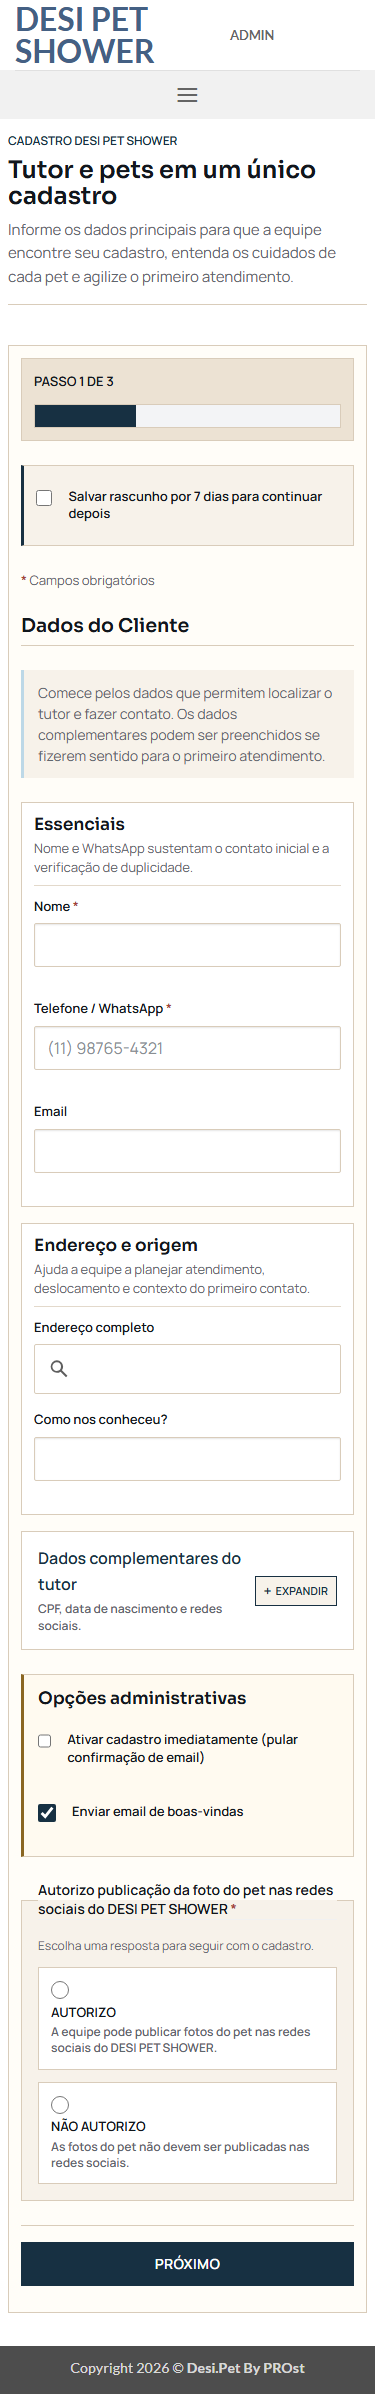
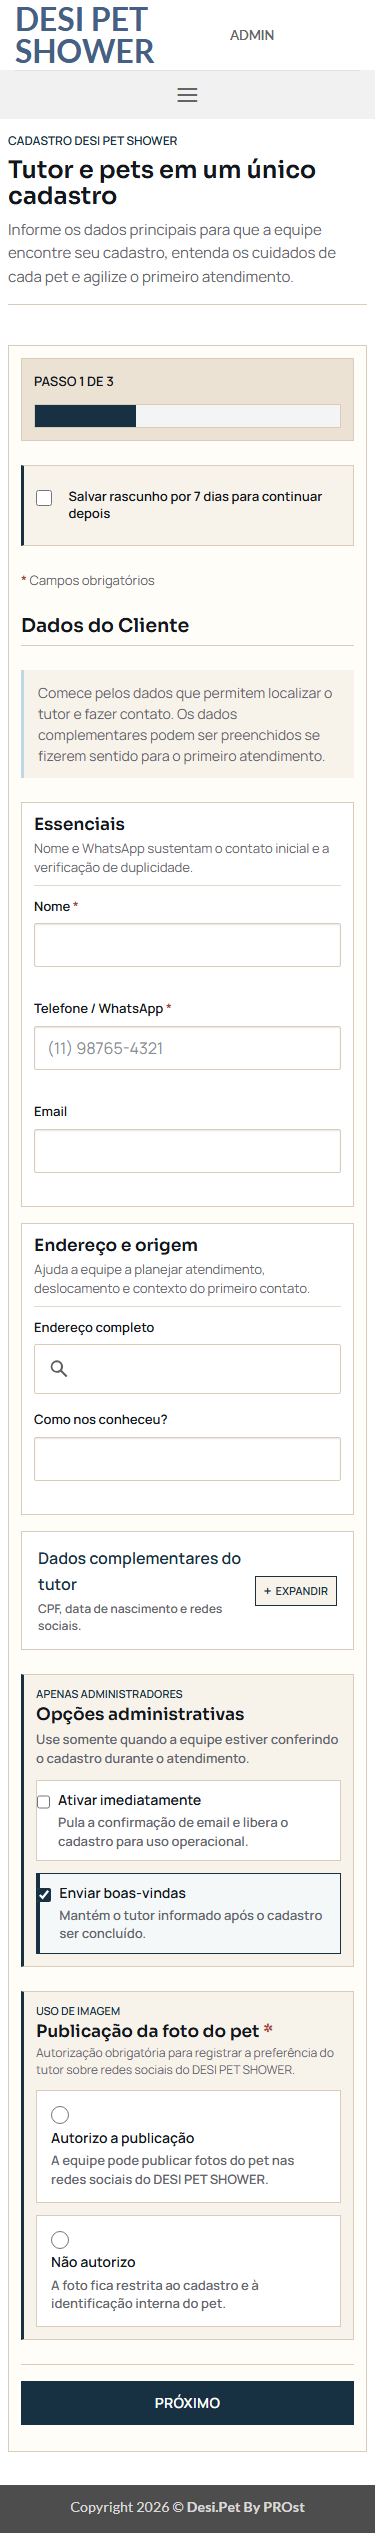
Refinar opcoes finais do Cadastro

diff --git a/plugins/desi-pet-shower-registration/assets/css/registration-addon.css b/plugins/desi-pet-shower-registration/assets/css/registration-addon.css
@@ -513,21 +513,36 @@
     margin: 0;
     padding: 16px;
     border: 1px solid var(--dps-reg-line);
+    border-left: 3px solid var(--dps-reg-petrol);
     border-radius: 0;
     background: var(--dps-reg-paper);
 }
 
-.dps-photo-auth-choice legend {
-    display: block;
-    width: 100%;
-    margin: 0 0 var(--dps-reg-gap-xs);
-    padding: 0;
+.dps-photo-auth-choice__header {
+    display: grid;
+    gap: 5px;
+    min-width: 0;
+}
+
+.dps-photo-auth-choice__eyebrow,
+.dps-admin-options__eyebrow {
+    margin: 0;
+    color: var(--dps-reg-petrol);
+    font-size: 11px;
+    font-weight: 900;
+    letter-spacing: 0;
+    line-height: 1.2;
+    text-transform: uppercase;
+}
+
+.dps-photo-auth-choice__title {
+    margin: 0;
     color: var(--dps-reg-ink);
-    font-size: 14px;
+    font-family: var(--dps-signature-font-display, var(--dps-font-display, system-ui, sans-serif));
+    font-size: 18px;
     font-weight: 800;
     letter-spacing: 0;
     line-height: 1.35;
-    text-transform: none;
 }
 
 .dps-photo-auth-options {
@@ -542,13 +557,14 @@
     gap: var(--dps-reg-gap-sm);
     align-items: start;
     min-width: 0;
+    min-height: 112px;
     margin: 0;
-    padding: 12px;
+    padding: 14px;
     border: 1px solid var(--dps-reg-line);
     border-radius: 0;
     background: #ffffff;
     cursor: pointer;
-    transition: border-color .18s ease, background-color .18s ease;
+    transition: border-color .18s ease, background-color .18s ease, box-shadow .18s ease;
 }
 
 .dps-photo-auth-option:hover,
@@ -559,7 +575,8 @@
 
 .dps-photo-auth-option:has(input:checked) {
     border-color: var(--dps-reg-petrol);
-    background: var(--dps-reg-sky);
+    background: #f4f8f8;
+    box-shadow: inset 3px 0 0 var(--dps-reg-petrol);
 }
 
 .dps-photo-auth-option input[type="radio"] {
@@ -571,22 +588,23 @@
 
 .dps-photo-auth-option__text {
     display: grid;
-    gap: 3px;
+    gap: 5px;
     min-width: 0;
 }
 
 .dps-photo-auth-option__text strong {
     color: var(--dps-reg-ink);
-    font-size: 13px;
+    font-size: 14px;
     font-weight: 900;
-    text-transform: uppercase;
+    line-height: 1.25;
+    text-transform: none;
 }
 
 .dps-photo-auth-option__text small {
     color: var(--dps-reg-muted);
-    font-size: 12px;
+    font-size: 13px;
     font-weight: 600;
-    line-height: 1.35;
+    line-height: 1.4;
 }
 
 .dps-photo-auth-choice:has(input[aria-invalid="true"]) {
@@ -926,13 +944,96 @@
     grid-column: 1 / -1;
     display: grid;
     gap: var(--dps-reg-gap-md);
-    padding: 14px;
-    border-left: 3px solid var(--dps-reg-warning);
-    background: #fffaf0;
+    padding: 16px;
+    border-left: 3px solid var(--dps-reg-petrol);
+    background: var(--dps-reg-paper);
+}
+
+.dps-admin-options__header {
+    display: grid;
+    gap: 5px;
+    min-width: 0;
 }
 
 .dps-admin-options__title {
-    color: var(--dps-reg-warning);
+    margin: 0;
+    color: var(--dps-reg-ink);
+    font-family: var(--dps-signature-font-display, var(--dps-font-display, system-ui, sans-serif));
+    font-size: 20px;
+    font-weight: 800;
+    letter-spacing: 0;
+    line-height: 1.25;
+}
+
+.dps-admin-options__description {
+    margin: 0;
+    color: var(--dps-reg-muted);
+    font-size: 13px;
+    font-weight: 600;
+    line-height: 1.45;
+}
+
+.dps-admin-options__grid {
+    display: grid;
+    grid-template-columns: repeat(2, minmax(0, 1fr));
+    gap: var(--dps-reg-gap-md);
+}
+
+.dps-admin-option {
+    display: grid;
+    grid-template-columns: auto minmax(0, 1fr);
+    gap: var(--dps-reg-gap-sm);
+    align-items: start;
+    min-width: 0;
+    min-height: 104px;
+    margin: 0;
+    padding: 14px;
+    border: 1px solid var(--dps-reg-line);
+    border-radius: 0;
+    background: #ffffff;
+    color: var(--dps-reg-ink);
+    cursor: pointer;
+    font-weight: 600;
+    transition: border-color .18s ease, background-color .18s ease, box-shadow .18s ease;
+}
+
+.dps-admin-option:hover,
+.dps-admin-option:focus-within {
+    border-color: var(--dps-reg-petrol);
+    background: var(--dps-reg-bone);
+}
+
+.dps-admin-option:has(input:checked) {
+    border-color: var(--dps-reg-petrol);
+    background: #f4f8f8;
+    box-shadow: inset 3px 0 0 var(--dps-reg-petrol);
+}
+
+.dps-admin-option input[type="checkbox"] {
+    width: 18px;
+    height: 18px;
+    margin: 2px 0 0;
+    accent-color: var(--dps-reg-petrol);
+}
+
+.dps-admin-option__body {
+    display: grid;
+    gap: 5px;
+    min-width: 0;
+}
+
+.dps-admin-option__label {
+    color: var(--dps-reg-ink);
+    font-size: 14px;
+    font-weight: 900;
+    line-height: 1.25;
+}
+
+.dps-admin-option__hint {
+    color: var(--dps-reg-muted);
+    font-size: 13px;
+    font-weight: 600;
+    line-height: 1.4;
 }
 
 .pac-container {
@@ -1172,8 +1273,10 @@
     }
 
     .dps-registration-wizard,
+    .dps-admin-options,
     .dps-pet-fieldset,
     .dps-product-prefs-pet,
+    .dps-photo-auth-choice,
     .dps-summary-box {
         padding: 14px;
     }
@@ -1182,6 +1285,7 @@
     .dps-pet-fieldset,
     .dps-field-group__body,
     .dps-optional-details__body,
+    .dps-admin-options__grid,
     .dps-photo-auth-options {
         grid-template-columns: 1fr;
     }
@@ -1240,10 +1344,12 @@
     .dps-registration-wizard,
     .dps-progress,
     .dps-registration-draft,
+    .dps-admin-options,
     .dps-field-group,
     .dps-optional-details__body,
     .dps-pet-fieldset,
     .dps-product-prefs-pet,
+    .dps-photo-auth-choice,
     .dps-summary-box,
     .dps-modal-header,
     .dps-modal-body,

diff --git a/plugins/desi-pet-shower-registration/desi-pet-shower-registration-addon.php b/plugins/desi-pet-shower-registration/desi-pet-shower-registration-addon.php
@@ -3,7 +3,7 @@
  * Plugin Name:       desi.pet by PRObst – Cadastro Add-on
  * Plugin URI:        https://www.probst.pro
  * Description:       Página pública de cadastro para clientes e pets. Envie o link e deixe o cliente preencher seus dados.
- * Version:           1.3.4
+ * Version:           1.3.5
  * Author:            PRObst
  * Author URI:        https://www.probst.pro
  * Text Domain:       dps-registration-addon
@@ -1018,7 +1018,7 @@ class DPS_Registration_Addon {
         }
 
         $addon_url = plugin_dir_url( __FILE__ );
-        $version   = '1.3.4';
+        $version   = '1.3.5';
 
         $recaptcha_settings = $this->get_recaptcha_settings();
         $should_load_recaptcha = $recaptcha_settings['enabled'] && ! empty( $recaptcha_settings['site_key'] );
@@ -2914,11 +2914,17 @@ class DPS_Registration_Addon {
 
         // F3.2: Opções administrativas para cadastro rápido
         if ( $is_admin ) {
-            echo '<div class="dps-admin-options">';
-            echo '<h5 class="dps-admin-options__title">' . esc_html__( 'Opções administrativas', 'dps-registration-addon' ) . '</h5>';
-            echo '<p><label><input type="checkbox" name="dps_admin_skip_confirmation" value="1"> ' . esc_html__( 'Ativar cadastro imediatamente (pular confirmação de email)', 'dps-registration-addon' ) . '</label></p>';
-            echo '<p><label><input type="checkbox" name="dps_admin_send_welcome" value="1" checked> ' . esc_html__( 'Enviar email de boas-vindas', 'dps-registration-addon' ) . '</label></p>';
+            echo '<section class="dps-admin-options" aria-labelledby="dps-admin-options-title">';
+            echo '<div class="dps-admin-options__header">';
+            echo '<p class="dps-admin-options__eyebrow">' . esc_html__( 'Apenas administradores', 'dps-registration-addon' ) . '</p>';
+            echo '<h5 id="dps-admin-options-title" class="dps-admin-options__title">' . esc_html__( 'Opções administrativas', 'dps-registration-addon' ) . '</h5>';
+            echo '<p class="dps-admin-options__description">' . esc_html__( 'Use somente quando a equipe estiver conferindo o cadastro durante o atendimento.', 'dps-registration-addon' ) . '</p>';
             echo '</div>';
+            echo '<div class="dps-admin-options__grid">';
+            echo '<label class="dps-admin-option dps-admin-option--activation"><input type="checkbox" name="dps_admin_skip_confirmation" value="1"><span class="dps-admin-option__body"><span class="dps-admin-option__label">' . esc_html__( 'Ativar imediatamente', 'dps-registration-addon' ) . '</span><span class="dps-admin-option__hint">' . esc_html__( 'Pula a confirmação de email e libera o cadastro para uso operacional.', 'dps-registration-addon' ) . '</span></span></label>';
+            echo '<label class="dps-admin-option dps-admin-option--welcome"><input type="checkbox" name="dps_admin_send_welcome" value="1" checked><span class="dps-admin-option__body"><span class="dps-admin-option__label">' . esc_html__( 'Enviar boas-vindas', 'dps-registration-addon' ) . '</span><span class="dps-admin-option__hint">' . esc_html__( 'Mantém o tutor informado após o cadastro ser concluído.', 'dps-registration-addon' ) . '</span></span></label>';
+            echo '</div>';
+            echo '</section>';
         }
 
         echo $this->get_photo_authorization_field_html();
@@ -3673,31 +3679,34 @@ class DPS_Registration_Addon {
     private function get_photo_authorization_field_html() {
         ob_start();
         ?>
-        <fieldset class="dps-photo-auth-choice" data-dps-photo-auth-field>
-            <legend>
-                <?php esc_html_e( 'Autorizo publicação da foto do pet nas redes sociais do DESI PET SHOWER', 'dps-registration-addon' ); ?>
-                <span class="dps-required">*</span>
-            </legend>
-            <p class="dps-field-hint" id="dps-client-photo-auth-hint">
-                <?php esc_html_e( 'Escolha uma resposta para seguir com o cadastro.', 'dps-registration-addon' ); ?>
-            </p>
-            <div class="dps-photo-auth-options">
-                <label class="dps-photo-auth-option">
+        <section class="dps-photo-auth-choice" data-dps-photo-auth-field aria-labelledby="dps-photo-auth-title">
+            <div class="dps-photo-auth-choice__header">
+                <p class="dps-photo-auth-choice__eyebrow"><?php esc_html_e( 'Uso de imagem', 'dps-registration-addon' ); ?></p>
+                <h5 class="dps-photo-auth-choice__title" id="dps-photo-auth-title">
+                    <?php esc_html_e( 'Publicação da foto do pet', 'dps-registration-addon' ); ?>
+                    <span class="dps-required">*</span>
+                </h5>
+                <p class="dps-field-hint" id="dps-client-photo-auth-hint">
+                    <?php esc_html_e( 'Autorização obrigatória para registrar a preferência do tutor sobre redes sociais do DESI PET SHOWER.', 'dps-registration-addon' ); ?>
+                </p>
+            </div>
+            <div class="dps-photo-auth-options" role="radiogroup" aria-labelledby="dps-photo-auth-title" aria-describedby="dps-client-photo-auth-hint">
+                <label class="dps-photo-auth-option dps-photo-auth-option--allow">
                     <input type="radio" name="client_photo_auth" value="1" required aria-describedby="dps-client-photo-auth-hint">
                     <span class="dps-photo-auth-option__text">
-                        <strong><?php esc_html_e( 'Autorizo', 'dps-registration-addon' ); ?></strong>
+                        <strong><?php esc_html_e( 'Autorizo a publicação', 'dps-registration-addon' ); ?></strong>
                         <small><?php esc_html_e( 'A equipe pode publicar fotos do pet nas redes sociais do DESI PET SHOWER.', 'dps-registration-addon' ); ?></small>
                     </span>
                 </label>
-                <label class="dps-photo-auth-option">
+                <label class="dps-photo-auth-option dps-photo-auth-option--deny">
                     <input type="radio" name="client_photo_auth" value="0" required aria-describedby="dps-client-photo-auth-hint">
                     <span class="dps-photo-auth-option__text">
                         <strong><?php esc_html_e( 'Não autorizo', 'dps-registration-addon' ); ?></strong>
-                        <small><?php esc_html_e( 'As fotos do pet não devem ser publicadas nas redes sociais.', 'dps-registration-addon' ); ?></small>
+                        <small><?php esc_html_e( 'A foto fica restrita ao cadastro e à identificação interna do pet.', 'dps-registration-addon' ); ?></small>
                     </span>
                 </label>
             </div>
-        </fieldset>
+        </section>
         <?php
         return ob_get_clean();
     }

diff --git a/docs/screenshots/2026-04-25/SCREENSHOTS_2026-04-25.md b/docs/screenshots/2026-04-25/SCREENSHOTS_2026-04-25.md
@@ -87,6 +87,8 @@ Resumo:
 - topo do wizard validado sem contador visual duplicado: `stepCounterExists: false` e `progressTopText: Passo 1 de 3` nos cinco breakpoints;
 - area `Dados complementares do tutor` validada com indicador explicito `Expandir`/`Recolher` e sem contador redundante;
 - autorizacao de publicacao de foto movida para um fieldset obrigatorio acima do botao `Proximo`, com opcoes destacadas `Autorizo` e `Nao autorizo`;
+- opcoes administrativas validadas como painel premium DPS Signature com 2 cards suportados pelo backend: `Ativar imediatamente` e `Enviar boas-vindas`;
+- autorizacao de foto refinada para cabecalho `Uso de imagem` e cards de decisao obrigatorios, mantendo `client_photo_auth` com 2 radios required;
 - validacao em branco passou a bloquear avanco tambem com `Informe se autoriza ou nao autoriza a publicacao da foto do pet.`;
 - runtime publicado confirmou `photoAuthFieldExists: true`, `photoAuthOptions: 2`, `photoAuthRequired: true` e `summaryHasPhotoAuth: true`;
 - campo Telefone/WhatsApp validado sem o texto fixo `Formato: (DDD) numero com 8 ou 9 digitos`; `phoneHintExists: false` nos cinco breakpoints e grid essencial com menor espaco vertical entre linhas;

diff --git a/CHANGELOG.md b/CHANGELOG.md
@@ -105,6 +105,7 @@ Antes de criar uma nova versÃ£o oficial:
 - Atualizado o Cadastro para usar `PlaceAutocompleteElement` quando disponivel, mantendo fallback legado e sincronizacao do input canonico `client_address`.
 - Reorganizada a etapa do tutor em grupos de dados essenciais, endereco/origem e complementares, com rascunho opt-in e live region acessivel.
 - Transformada a autorização de publicação da foto do pet em escolha obrigatória `Autorizo`/`Não autorizo`, destacada acima do botão Próximo.
+- Redesenhadas as áreas de opções administrativas e autorização de foto do Cadastro com hierarquia, microcopy e cards de decisão no padrão DPS Signature.
 - Adicionado indicador `Expandir`/`Recolher` aos disclosures opcionais do Cadastro para deixar a área expansível explícita.
 - Removida a dica fixa de formato do campo Telefone/WhatsApp e compactado o espaçamento vertical dos campos essenciais.
 - Corrigido contraste do componente Google Places no campo Endereço completo, forçando superfície clara e texto legível no padrão DPS Signature.
